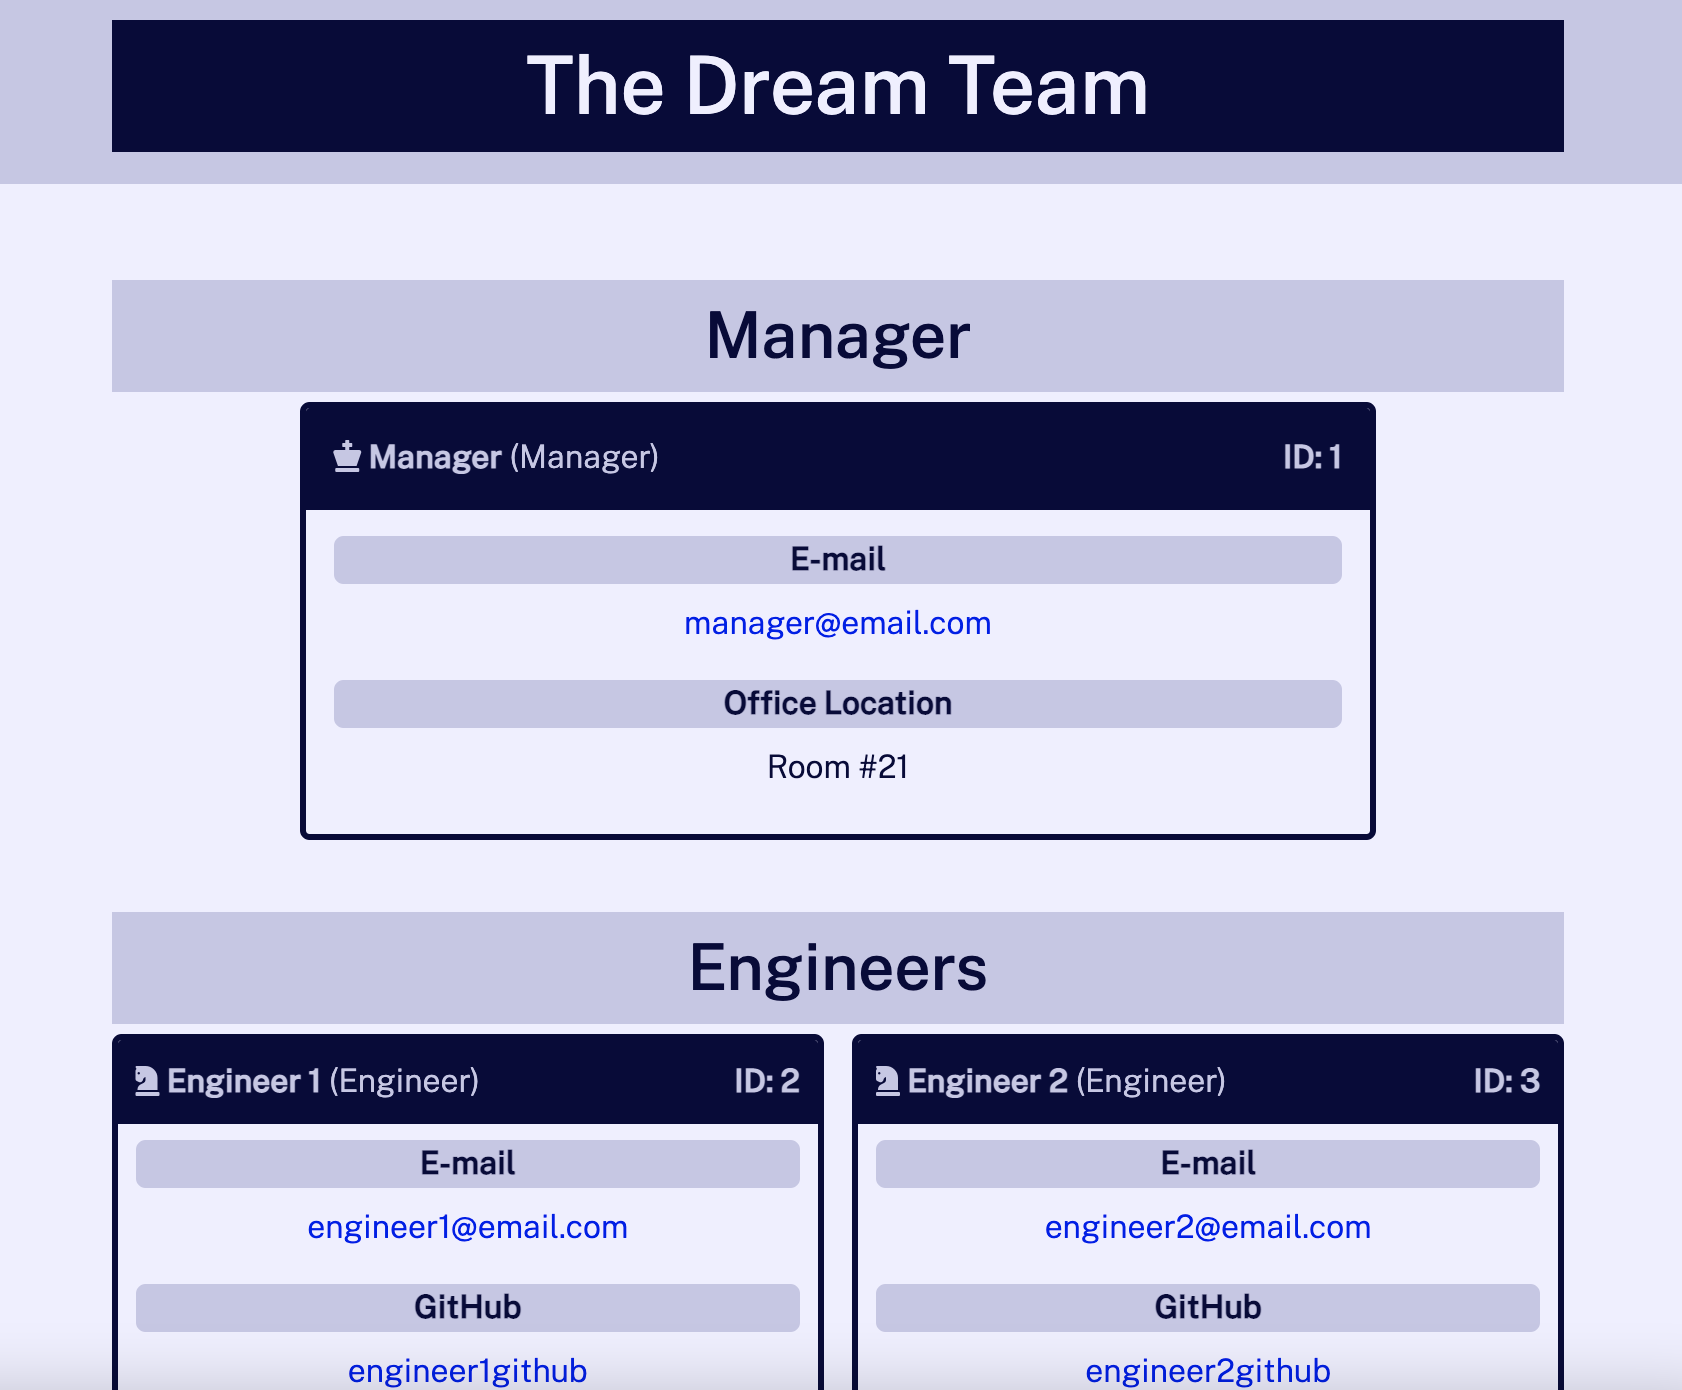
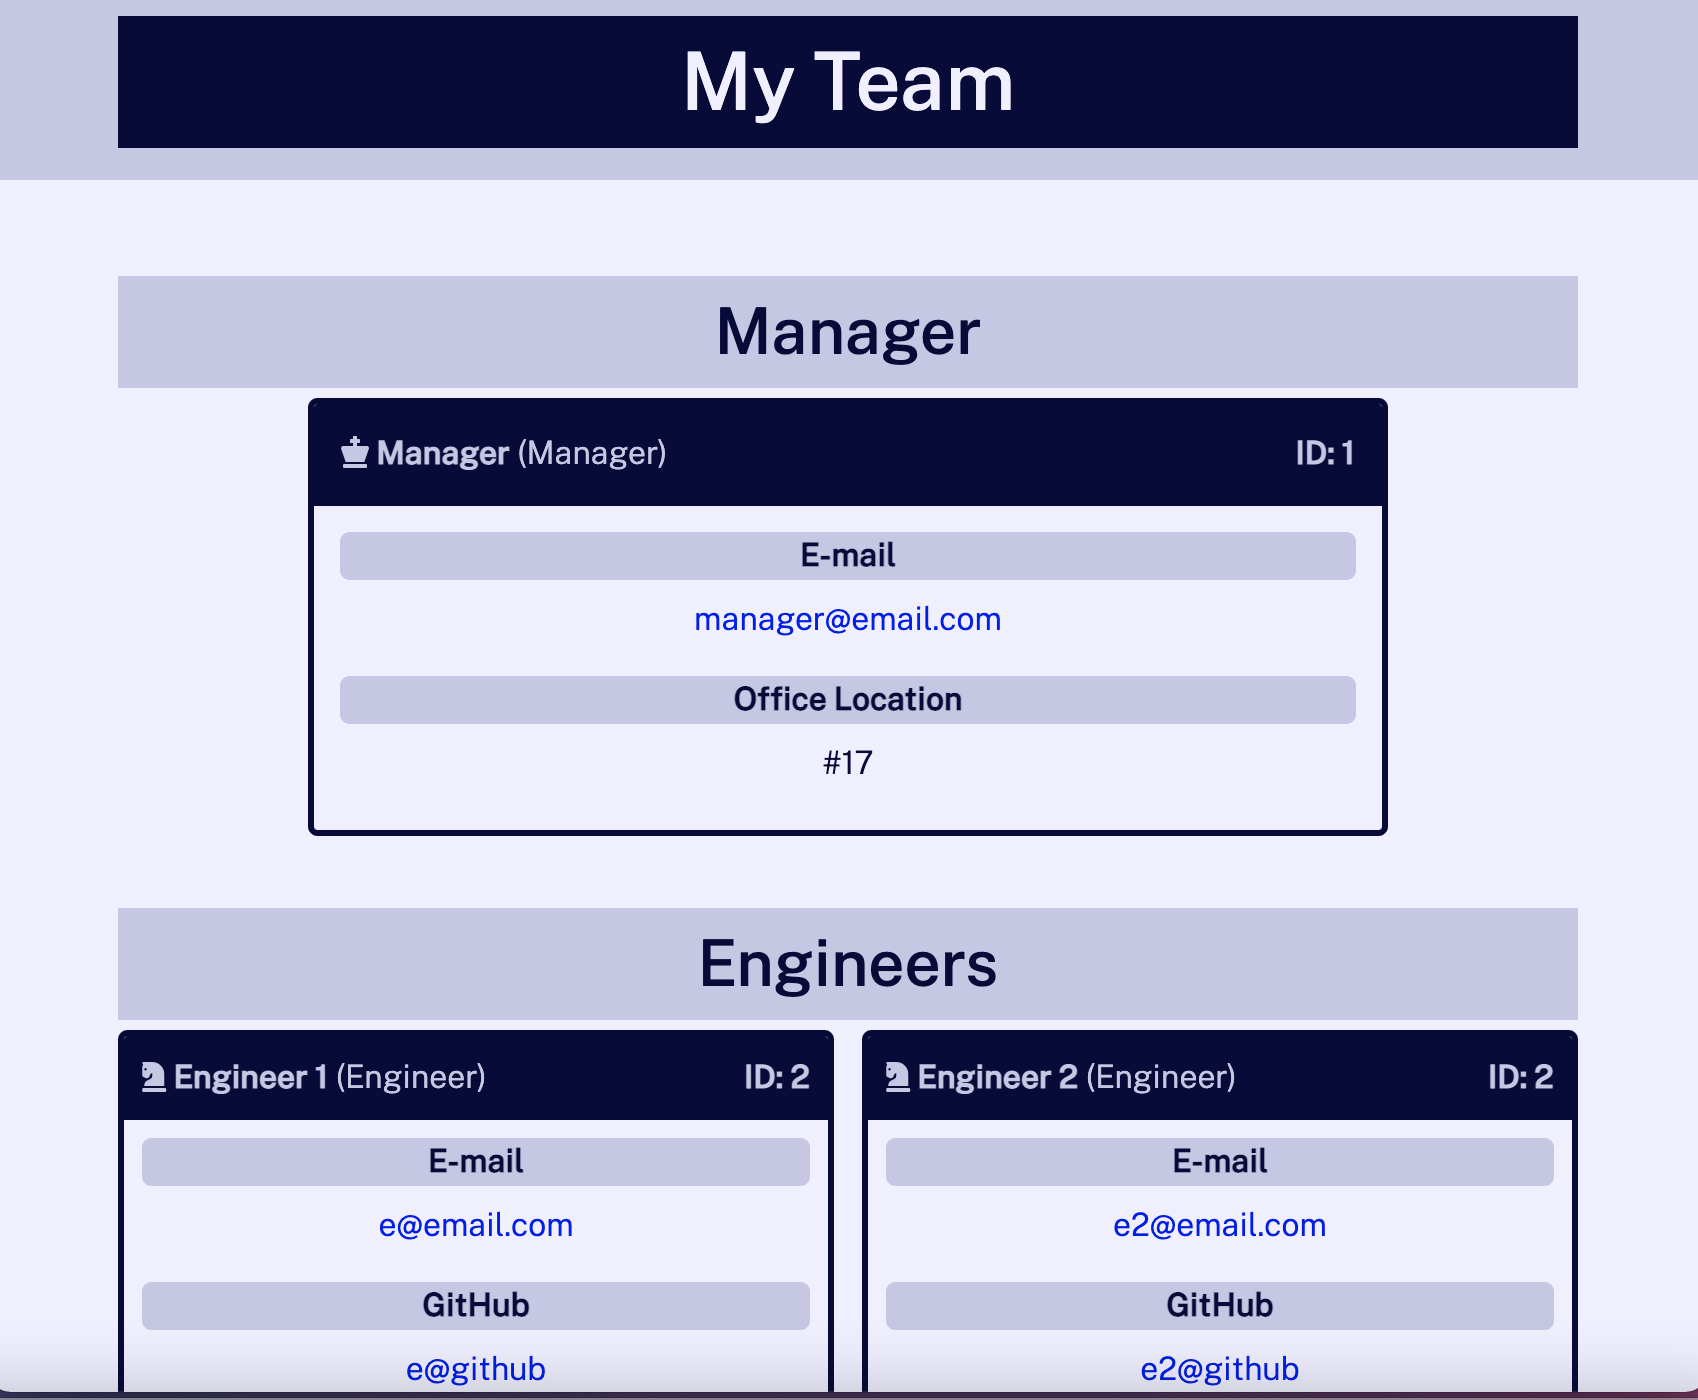
final final final

diff --git a/dist/index.html b/dist/index.html
@@ -1,115 +1,116 @@
-<!DOCTYPE html>
-  <html lang="en">
 
-  <head>
-    <meta charset="UTF-8">
-    <meta name="viewport" content="width=device-width, initial-scale=1.0">
-    <meta http-equiv="X-UA-Compatible" content="ie=edge">
-    <title>Team Profile</title>
-    <link rel="stylesheet" href="https://cdnjs.cloudflare.com/ajax/libs/font-awesome/5.11.2/css/all.min.css">
-    <link href="https://fonts.googleapis.com/css?family=Public+Sans:300i,300,500&display=swap" rel="stylesheet">
-    <link rel="stylesheet" href="style.css">
-  </head>
-
-  <body>
-    <header>
-      <div class="container flex-row justify-space-between align-center py-3">
-        <h1 class="page-title text-secondary bg-dark py-2 px-3">The Dream Team</h1>
-      </div>
-    </header>
-    <main class="container my-5">
-    
-    <section class="my-3" id="manager">
-      <h2 class="text-dark bg-primary p-2 text-center">Manager</h2>
-      <div class="flex-row justify-center">
-      
-                <div class="card w-75">
-                    <div class="card-header flex-row justify-space-between">
-                        <div><strong><i class="fas fa-chess-king"></i> Manager</strong> <span>(Manager)</span></div>
-                        <div class="text-right"><strong>ID: 1</strong></div>
-                    </div>
-                    <div class="card-body text-center">
-                        <div class="bg-primary round-corners"><strong>E-mail</strong></div>
-                        <div class="m-2"><a href="mailto:manager@email.com">manager@email.com</a></div>
-                        <div class="bg-primary round-corners mt-3"><strong>Office Location</strong></div>
-                        <div class="m-2">Room #21</div>
-                    </div>
-                </div>
-      </div>
-    </section>
+    <!DOCTYPE html>
+    <html lang="en">
   
-    
-    <section class="my-3" id="engineer">
-      <h2 class="text-dark bg-primary p-2 text-center">Engineers</h2>
-      <div class="flex-row justify-space-between">
-      
-                <div class="card w-50">
-                    <div class="card-header flex-row justify-space-between">
-                        <div><strong><i class="fas fa-chess-knight"></i> Engineer 1</strong> <span>(Engineer)</span></div>
-                        <div class="text-right"><strong>ID: 2</strong></div>
-                    </div>
-                    <div class="card-body text-center">
-                        <div class="bg-primary round-corners"><strong>E-mail</strong></div>
-                        <div class="m-2"><a href="mailto:engineer1@email.com">engineer1@email.com</a></div>
-                        <div class="bg-primary round-corners mt-3"><strong>GitHub</strong></div>
-                        <div class="m-2"><a href="https://github.com/engineer1github" target="_blank">engineer1github</a></div>
-                    </div>
-                </div>
-                
-                <div class="card w-50">
-                    <div class="card-header flex-row justify-space-between">
-                        <div><strong><i class="fas fa-chess-knight"></i> Engineer 2</strong> <span>(Engineer)</span></div>
-                        <div class="text-right"><strong>ID: 3</strong></div>
-                    </div>
-                    <div class="card-body text-center">
-                        <div class="bg-primary round-corners"><strong>E-mail</strong></div>
-                        <div class="m-2"><a href="mailto:engineer2@email.com">engineer2@email.com</a></div>
-                        <div class="bg-primary round-corners mt-3"><strong>GitHub</strong></div>
-                        <div class="m-2"><a href="https://github.com/engineer2github" target="_blank">engineer2github</a></div>
-                    </div>
-                </div>
-                
-      </div>
-    </section>
+    <head>
+      <meta charset="UTF-8">
+      <meta name="viewport" content="width=device-width, initial-scale=1.0">
+      <meta http-equiv="X-UA-Compatible" content="ie=edge">
+      <title>Team Profile</title>
+      <link rel="stylesheet" href="https://cdnjs.cloudflare.com/ajax/libs/font-awesome/5.11.2/css/all.min.css">
+      <link href="https://fonts.googleapis.com/css?family=Public+Sans:300i,300,500&display=swap" rel="stylesheet">
+      <link rel="stylesheet" href="style.css">
+    </head>
   
+    <body>
+      <header>
+        <div class="container flex-row justify-space-between align-center py-3">
+          <h1 class="page-title text-secondary bg-dark py-2 px-3">My Team</h1>
+        </div>
+      </header>
+      <main class="container my-5">
+      
+      <section class="my-3" id="manager">
+        <h2 class="text-dark bg-primary p-2 text-center">Manager</h2>
+        <div class="flex-row justify-center">
+        
+                  <div class="card w-75">
+                      <div class="card-header flex-row justify-space-between">
+                          <div><strong><i class="fas fa-chess-king"></i> Manager</strong> <span>(Manager)</span></div>
+                          <div class="text-right"><strong>ID: 1</strong></div>
+                      </div>
+                      <div class="card-body text-center">
+                          <div class="bg-primary round-corners"><strong>E-mail</strong></div>
+                          <div class="m-2"><a href="mailto:manager@email.com">manager@email.com</a></div>
+                          <div class="bg-primary round-corners mt-3"><strong>Office Location</strong></div>
+                          <div class="m-2">#17</div>
+                      </div>
+                  </div>
+        </div>
+      </section>
     
-    <section class="my-3" id="intern">
-      <h2 class="text-dark bg-primary p-2 text-center">Interns</h2>
-      <div class="flex-row justify-space-between">
       
-                <div class="card w-50">
-                    <div class="card-header flex-row justify-space-between">
-                        <div><strong><i class="fas fa-chess-pawn"></i> Intern 1</strong> <span>(Intern)</span></div>
-                        <div class="text-right"><strong>ID: 4</strong></div>
-                    </div>
-                    <div class="card-body text-center">
-                        <div class="bg-primary round-corners"><strong>E-mail</strong></div>
-                        <div class="m-2"><a href="mailto:intern1@email.com">intern1@email.com</a></div>
-                        <div class="bg-primary round-corners mt-3"><strong>School</strong></div>
-                        <div class="m-2">College University</div>
-                    </div>
-                </div>
-                
-                <div class="card w-50">
-                    <div class="card-header flex-row justify-space-between">
-                        <div><strong><i class="fas fa-chess-pawn"></i> Intern 2</strong> <span>(Intern)</span></div>
-                        <div class="text-right"><strong>ID: 5</strong></div>
-                    </div>
-                    <div class="card-body text-center">
-                        <div class="bg-primary round-corners"><strong>E-mail</strong></div>
-                        <div class="m-2"><a href="mailto:intern2@email.com">intern2@email.com</a></div>
-                        <div class="bg-primary round-corners mt-3"><strong>School</strong></div>
-                        <div class="m-2">College University</div>
-                    </div>
-                </div>
-                
-      </div>
-    </section>
+      <section class="my-3" id="engineer">
+        <h2 class="text-dark bg-primary p-2 text-center">Engineers</h2>
+        <div class="flex-row justify-space-between">
+        
+                  <div class="card w-50">
+                      <div class="card-header flex-row justify-space-between">
+                          <div><strong><i class="fas fa-chess-knight"></i> Engineer 1</strong> <span>(Engineer)</span></div>
+                          <div class="text-right"><strong>ID: 2</strong></div>
+                      </div>
+                      <div class="card-body text-center">
+                          <div class="bg-primary round-corners"><strong>E-mail</strong></div>
+                          <div class="m-2"><a href="mailto:e@email.com">e@email.com</a></div>
+                          <div class="bg-primary round-corners mt-3"><strong>GitHub</strong></div>
+                          <div class="m-2"><a href="https://github.com/e@github" target="_blank">e@github</a></div>
+                      </div>
+                  </div>
+                  
+                  <div class="card w-50">
+                      <div class="card-header flex-row justify-space-between">
+                          <div><strong><i class="fas fa-chess-knight"></i> Engineer 2</strong> <span>(Engineer)</span></div>
+                          <div class="text-right"><strong>ID: 2</strong></div>
+                      </div>
+                      <div class="card-body text-center">
+                          <div class="bg-primary round-corners"><strong>E-mail</strong></div>
+                          <div class="m-2"><a href="mailto:e2@email.com">e2@email.com</a></div>
+                          <div class="bg-primary round-corners mt-3"><strong>GitHub</strong></div>
+                          <div class="m-2"><a href="https://github.com/e2@github" target="_blank">e2@github</a></div>
+                      </div>
+                  </div>
+                  
+        </div>
+      </section>
+    
       
-    </main>
-    <footer class="container text-center py-3">
-      <h3 class="text-dark">&copy; 2021 by Abby Sexton</h3>
-    </footer>
-  </body>
-  </html>
-  
+      <section class="my-3" id="intern">
+        <h2 class="text-dark bg-primary p-2 text-center">Interns</h2>
+        <div class="flex-row justify-space-between">
+        
+                  <div class="card w-50">
+                      <div class="card-header flex-row justify-space-between">
+                          <div><strong><i class="fas fa-chess-pawn"></i> Intern</strong> <span>(Intern)</span></div>
+                          <div class="text-right"><strong>ID: 3</strong></div>
+                      </div>
+                      <div class="card-body text-center">
+                          <div class="bg-primary round-corners"><strong>E-mail</strong></div>
+                          <div class="m-2"><a href="mailto:1@email.com">1@email.com</a></div>
+                          <div class="bg-primary round-corners mt-3"><strong>School</strong></div>
+                          <div class="m-2">College University</div>
+                      </div>
+                  </div>
+                  
+                  <div class="card w-50">
+                      <div class="card-header flex-row justify-space-between">
+                          <div><strong><i class="fas fa-chess-pawn"></i> Intern 2</strong> <span>(Intern)</span></div>
+                          <div class="text-right"><strong>ID: 3</strong></div>
+                      </div>
+                      <div class="card-body text-center">
+                          <div class="bg-primary round-corners"><strong>E-mail</strong></div>
+                          <div class="m-2"><a href="mailto:i2@email.com">i2@email.com</a></div>
+                          <div class="bg-primary round-corners mt-3"><strong>School</strong></div>
+                          <div class="m-2">College University</div>
+                      </div>
+                  </div>
+                  
+        </div>
+      </section>
+        
+      </main>
+      <footer class="container text-center py-3">
+        <h3 class="text-dark">&copy; 2021 by Russ Tracy</h3>
+      </footer>
+    </body>
+    </html>
+    

diff --git a/README.md b/README.md
@@ -7,7 +7,7 @@ This is a Node.js application that will generate a team profile page based on us
 Clone the repositry from GitHub and open using Visual Studio Code.
 
 # Usage 
-[Demo Viedo]()
+[Demo Viedo](https://drive.google.com/file/d/1Qf0YSQjzZLPApt43ufOPn1-alUf1f8_g/view)
 
 ![alt text](./assets/images/SS1.png)
 
